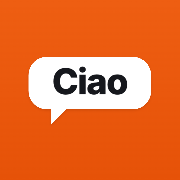
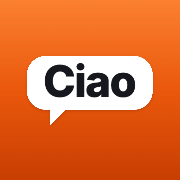
Add files via upload

diff --git a/index.html b/index.html
@@ -1,8 +1,8 @@
 <!DOCTYPE html>
 <html lang="de">
 <head>
-<link rel="apple-touch-icon" href="apple-touch-icon.png">
-<link rel="icon" type="image/png" href="icon-512.png">
+<link rel="apple-touch-icon" href="apple-touch-icon.png?v=3">
+<link rel="icon" type="image/png" href="icon-512.png?v=3">
 <link rel="manifest" href="manifest.webmanifest">
 <meta name="theme-color" content="#EA580C">
 <meta name="apple-mobile-web-app-title" content="Italienisch">
@@ -815,7 +815,7 @@
   // Bei einer neuen Quelldatei diese Version hochzaehlen: laedt die App dann
   // einmalig neu mit SEED_WORDS, unabhaengig davon, was schon gespeichert war.
   const SEED_VERSION = "2026-10-23-plural";
-  const APP_VERSION = "2026-10-24-x"; // bei jeder Code-Aenderung hochzaehlen (Auto-Update)
+  const APP_VERSION = "2026-10-24-y"; // bei jeder Code-Aenderung hochzaehlen (Auto-Update)
 
   // Reihenfolge = Reihenfolge im Quelldokument (Italienisch_Vokabular_Italo),
   // dort bereits nach Wortarten sortiert. Jedes Wort traegt seine Wortart in "cat".

diff --git a/italienisch-trainer.html b/italienisch-trainer.html
@@ -1,8 +1,8 @@
 <!DOCTYPE html>
 <html lang="de">
 <head>
-<link rel="apple-touch-icon" href="apple-touch-icon.png">
-<link rel="icon" type="image/png" href="icon-512.png">
+<link rel="apple-touch-icon" href="apple-touch-icon.png?v=3">
+<link rel="icon" type="image/png" href="icon-512.png?v=3">
 <link rel="manifest" href="manifest.webmanifest">
 <meta name="theme-color" content="#EA580C">
 <meta name="apple-mobile-web-app-title" content="Italienisch">
@@ -815,7 +815,7 @@
   // Bei einer neuen Quelldatei diese Version hochzaehlen: laedt die App dann
   // einmalig neu mit SEED_WORDS, unabhaengig davon, was schon gespeichert war.
   const SEED_VERSION = "2026-10-23-plural";
-  const APP_VERSION = "2026-10-24-x"; // bei jeder Code-Aenderung hochzaehlen (Auto-Update)
+  const APP_VERSION = "2026-10-24-y"; // bei jeder Code-Aenderung hochzaehlen (Auto-Update)
 
   // Reihenfolge = Reihenfolge im Quelldokument (Italienisch_Vokabular_Italo),
   // dort bereits nach Wortarten sortiert. Jedes Wort traegt seine Wortart in "cat".
